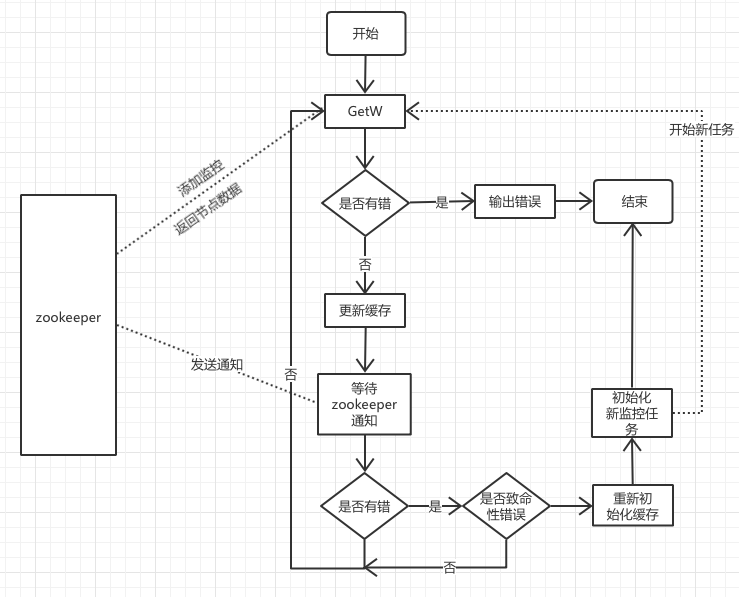
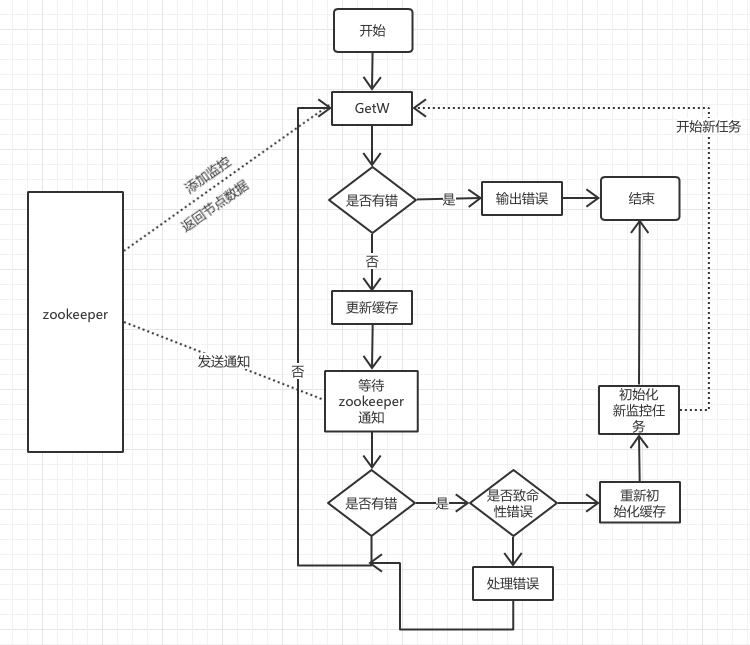
fixed

diff --git a/_site/服务治理/2016/11/16/servicemangger.html b/_site/服务治理/2016/11/16/servicemangger.html
@@ -139,36 +139,36 @@
   </div>
   <h2 id="section">为什么要做服务治理</h2>
 
-<p>一个系统在开发之初，功能简单，规模较小。 随着业务需求变化和增加，
-系统的功能和规模变得庞大</p>
+<p>一个系统在开发之初，功能简单，规模较小。 随着业务需求的变化和增加，
+系统的功能和规模会变得庞大。</p>
 
-<p>会出现以下问题：</p>
+<p>将会出现以下问题：</p>
 
 <ol>
-  <li>维护、开发、部署变得困难</li>
+  <li>维护、开发、部署将变得困难</li>
   <li>水平扩展困难</li>
   <li>功能及技术迭代困难
 （注：技术迭代指的是替换使用的语言、第三方工具等）</li>
 </ol>
 
-<p>为了解决上述的问题，我们会采取分拆系统的方法，将一个庞大的系统拆分成N个小系统。</p>
+<p>为了解决上述的问题，我们将会采取分拆系统的方法，将一个庞大的系统拆分成N个小系统。</p>
 
-<p>拆分会带来以下好处：</p>
+<p>拆分会带来以下的好处：</p>
 
 <ol>
   <li>独立部署，方便水平扩展</li>
   <li>系统隔离</li>
-  <li>快速的迭代（每个项目可以根据自己的业务场景来决定使用最优的语言和第三方工具）</li>
+  <li>快速的迭代（每个系统可以根据业务场景来决定使用最优的开发语言和第三方工具）</li>
 </ol>
 
 <p>但是，拆分并没有从根本上解决问题，随着业务发展，我们拆分出来的N个小系统会继续添加相关的业务，
-随着时间的发展也变的复杂和庞大。我们有继续使用拆分的方案。 然后拆分出来的系统又开始从简单变得复杂和臃肿，
-一遍又一遍做着重复拆分的事情。</p>
+随着时间的发展也变的复杂和庞大。我们又继续使用拆分的方案， 然后拆分出来的系统又随着业务的变化和发展，
+开始从简单变得复杂，我们一遍又一遍做着重复拆分的事情。</p>
 
-<p>我们如何解决这个问题：</p>
+<p>解决问题的方法是：</p>
 
-<p>在接到开发任务之初，将任务做成一个或者多个独立的服务单元（服务单元:请看下面注释），每个服务单元单独部署和迭代开发。
-禁止添加其它非要功能，单独部署。</p>
+<p>在接到开发任务之初，将任务做成一个或者多个独立的服务单元（服务单元:请看下面注释），
+每个服务单元单独部署和迭代开发，禁止添加其它非必要的功能。</p>
 
 <p>注解：</p>
 
@@ -191,11 +191,11 @@ DNS,NGINX,CONFIG都可以用来管理服务单元信息的变更
 </code></pre>
 
 <p>上述的方法，虽然可以解决问题，但是每次必须修改配置，然后重新加载配置才会生效。
-无法实现立即生效，避免错误继续扩大。为了解决这些问题，就要使用有效的服务治理方案。</p>
+无法实现立即生效，避免错误继续扩大的问题。为了解决这些问题，就要使用有效的服务治理方案。</p>
 
 <h2 id="section-1">服务治理</h2>
 
-<p>服务治理主要是对服务信息进行管理的一系列任务。为了实现这个任务，
+<p>服务治理主要是对服务信息进行管理的一系列的系统。为了实现这个系统，
 我们需要一个高可用、低延迟的数据存储工具。</p>
 
 <p>经过筛选我们最终选择了zookeeper。
@@ -212,7 +212,7 @@ DNS,NGINX,CONFIG都可以用来管理服务单元信息的变更
   <li>zookeeper watcher机制能够及时通知修改，保证信息一直</li>
 </ol>
 
-<p>虽然，我们可以通过zookeeper来解决存储服务信息的问题，
+<p>虽然，我们可以通过zookeeper来解决存储数据的问题，
 但是服务的信息并不会自动出现在zookeeper中，我们需要开发一个关于服务治理的系统。</p>
 
 <p>服务治理具备功能：</p>
@@ -329,28 +329,73 @@ Every node in ZooKeeper’s name space is identified by a path.</p>
 <p>为什么要将zookeeper中存储数据的结构设计为上面描述格式， 是因为zookeeper在watcher机制的处理中给出了
    两个关于wather 通知使用的API（golang zk）
    一个是关注子节点变化ChildrenW函数，另外一个是关注节点本身内容变化GetW函数。
-   我们的实现方案让每个节点功watcher机制更加简单。
-   我们现在来看一个具体的例子：假设有一个服务s，下面有A,B两个接口</p>
-
-<p><img src="/img/zkstoragestructrue.png" alt="" /></p>
+   我们设计的方案在实现上让每个节点功watcher更加简单。
+   我们现在来看一个具体的例子：假设有一个服务s，下面有A,B两个接口
+<img src="/img/zkstoragestructrue.png" alt="" /></p>
 
 <h2 id="zookeeper">出现的问题（如何保证缓存信息和zookeeper中的内容一致）</h2>
 
 <p>Gateway 为了做到低延迟和高可用性，在Gateway 中缓存zookeeper中的数据。
 在Gateway中缓存数据的格式与zookeeper中的结构一致。
-我们是如何保证缓存的信息是正确可用的？
+我们是如何保证缓存的信息是正确可用的,
 就需要用到zookeeper的watcher机制。在zookeeper中内容中修改时，
-通过watcher机制通知API Gateway 来更新缓存</p>
+通过watcher机制通知Gateway 来更新缓存</p>
 
-<p>具体的使用方法如下：</p>
+<p>具体的设计如下图（具体实现的流程图在最后）：</p>
 
-<p>watcher 正常情况：</p>
+<p><img src="/img/zkwatcherdesign.png" alt="" /></p>
 
-<p><img src="/img/zkwatcher.png" alt="" /></p>
+<p>看了设计图可能会有下列的疑问：</p>
 
-<p>watcher 错误情况:</p>
+<ol>
+  <li>
+    <p>为什么收到通知后不直接去更新缓存？</p>
 
-<p><img src="/img/zkwatcherror.png" alt="" /></p>
+    <p>这个问题就需要了解zookeeper关于watcher机制的原理，zookeeper的watcher机制是一次性的，
+ 在收到watcher的通知后，watcher就消失了。为了避免在更新缓存时zookeeper的
+ 数据再次变化无法收到通知，因为这个时候watcher机制已经没有，
+ zookeeper已经没有通知Gateway机制，这样缓存中的数据和zookeeper中的数据将会不一致。</p>
+  </li>
+  <li>
+    <p>为什么致命错误需要重新初始化缓存？</p>
+
+    <p>下面的介绍会跟开发使用的语言和使用zookeeper的sdk有一定的关系。</p>
+
+    <p>开发语言：golang   — SDK：samuel/go-zookeeper/zk</p>
+
+    <p>我们先来看下zookeeper的SDK是如何处理错误，
+ 个人将SDK的错误分为非致命错误和致命错误错误两种（个人观点）。</p>
+
+    <pre><code> 非致命错误：ErrNoAuth、ErrAPIError、ErrAuthFailed等
+
+ 致命错误：ErrSessionMoved、ErrSessionExpired等
+</code></pre>
+
+    <p>非致命错误是在函数调用时由于函数调用使用的参数及上下文环境出现问题返回的错误，
+ 影响范围只有本次调用。</p>
+
+    <p>致命错误通常是与zookeeper集群的通信出现网络故障，影响所有SDK与zookeeper的通信。</p>
+
+    <p>但是SDK(go-zookeeper)并不会在出现问题时刻立即报错，
+ SDK会自动尝试建立新的可用session，
+ SDK在session建立成功后给所有watcher发送一个错误通知。</p>
+
+    <p>ErrSessionMoved: 是与zookeeper集群的某个实例session失效后，
+ 下次与zookeeper成功建立session发送给所有watcher。</p>
+
+    <p>ErrSessionExpired:是与整个zookeeper集群session失效后，
+ 下次与zookeeper成功建立session发送给所有watcher。</p>
+
+    <p>致命错误：我们无法知道在于zookeeper集群session断开的时间段中，
+ zookeeper中的数据数据增删改查的变化。如果只是更新和新加，
+ 我们可以在初始化的时候将节点的内容缓存即可，
+ 但是如果有删除的话。我们就需要遍历所有的缓存内容来删除不需要的缓存。</p>
+  </li>
+</ol>
+
+<p>具体实现的流程图：</p>
+
+<p><img src="/img/zkwatcherprocess.png" alt="" /></p>
 
 
   <div class="post-affix">

diff --git a/_site/index.html b/_site/index.html
@@ -164,15 +164,14 @@
     <span class="post-date"><i class="fa fa-clock-o"></i> 2016-11-16</span>
     为什么要做服务治理
 
-一个系统在开发之初，功能简单，规模较小。 随着业务需求变化和增加，
-系统的功能和规模变得庞大
+一个系统在开发之初，功能简单，规模较小。 随着业务需求的变化和增加，
+系统的功能和规模会变得庞大。
 
-会出现以下问题：
+将会出现以下问题：
 
 
-  维护、开发、部署变得困难
-  水平扩展困难
-  功...
+  维护、开发、部署将变得困难
+  水平扩展困...
   </div>
   
   <div class="post">

diff --git a/_posts/2016-11-16-servicemangger.md b/_posts/2016-11-16-servicemangger.md
@@ -5,35 +5,36 @@ category: [服务治理]
 tags: [服务治理]
 ---
 
+
 ## 为什么要做服务治理
 
-一个系统在开发之初，功能简单，规模较小。 随着业务需求变化和增加，
-系统的功能和规模变得庞大
+一个系统在开发之初，功能简单，规模较小。 随着业务需求的变化和增加，
+系统的功能和规模会变得庞大。
 
-会出现以下问题：
+将会出现以下问题：
 
-1. 维护、开发、部署变得困难
+1. 维护、开发、部署将变得困难
 2. 水平扩展困难
 3. 功能及技术迭代困难
 （注：技术迭代指的是替换使用的语言、第三方工具等）
 
-为了解决上述的问题，我们会采取分拆系统的方法，将一个庞大的系统拆分成N个小系统。
+为了解决上述的问题，我们将会采取分拆系统的方法，将一个庞大的系统拆分成N个小系统。
 
-拆分会带来以下好处：
+拆分会带来以下的好处：
 
 1. 独立部署，方便水平扩展
 2. 系统隔离
-3. 快速的迭代（每个项目可以根据自己的业务场景来决定使用最优的语言和第三方工具）
+3. 快速的迭代（每个系统可以根据业务场景来决定使用最优的开发语言和第三方工具）
 
 但是，拆分并没有从根本上解决问题，随着业务发展，我们拆分出来的N个小系统会继续添加相关的业务，
-随着时间的发展也变的复杂和庞大。我们有继续使用拆分的方案。 然后拆分出来的系统又开始从简单变得复杂和臃肿，
-一遍又一遍做着重复拆分的事情。
+随着时间的发展也变的复杂和庞大。我们又继续使用拆分的方案， 然后拆分出来的系统又随着业务的变化和发展，
+开始从简单变得复杂，我们一遍又一遍做着重复拆分的事情。
 
 
-我们如何解决这个问题：
+解决问题的方法是：
 
-在接到开发任务之初，将任务做成一个或者多个独立的服务单元（服务单元:请看下面注释），每个服务单元单独部署和迭代开发。
-禁止添加其它非要功能，单独部署。
+在接到开发任务之初，将任务做成一个或者多个独立的服务单元（服务单元:请看下面注释），
+每个服务单元单独部署和迭代开发，禁止添加其它非必要的功能。
 
 注解：
 
@@ -54,11 +55,11 @@ tags: [服务治理]
     DNS,NGINX,CONFIG都可以用来管理服务单元信息的变更
 
 上述的方法，虽然可以解决问题，但是每次必须修改配置，然后重新加载配置才会生效。
-无法实现立即生效，避免错误继续扩大。为了解决这些问题，就要使用有效的服务治理方案。
+无法实现立即生效，避免错误继续扩大的问题。为了解决这些问题，就要使用有效的服务治理方案。
 
 ## 服务治理
 
-服务治理主要是对服务信息进行管理的一系列任务。为了实现这个任务，
+服务治理主要是对服务信息进行管理的一系列的系统。为了实现这个系统，
 我们需要一个高可用、低延迟的数据存储工具。
 
 经过筛选我们最终选择了zookeeper。
@@ -73,7 +74,7 @@ ZooKeeper is a centralized service for maintaining configuration information,
 2. zookeeper 使用范围比较广，
 3. zookeeper watcher机制能够及时通知修改，保证信息一直
 
-虽然，我们可以通过zookeeper来解决存储服务信息的问题，
+虽然，我们可以通过zookeeper来解决存储数据的问题，
 但是服务的信息并不会自动出现在zookeeper中，我们需要开发一个关于服务治理的系统。
 
 服务治理具备功能：
@@ -184,10 +185,8 @@ ZooKeeper is a centralized service for maintaining configuration information,
    为什么要将zookeeper中存储数据的结构设计为上面描述格式， 是因为zookeeper在watcher机制的处理中给出了
    两个关于wather 通知使用的API（golang zk）
    一个是关注子节点变化ChildrenW函数，另外一个是关注节点本身内容变化GetW函数。
-   我们的实现方案让每个节点功watcher机制更加简单。
+   我们设计的方案在实现上让每个节点功watcher更加简单。
    我们现在来看一个具体的例子：假设有一个服务s，下面有A,B两个接口
-   
-   
 ![](/img/zkstoragestructrue.png)
    
 
@@ -196,23 +195,66 @@ ZooKeeper is a centralized service for maintaining configuration information,
 
 Gateway 为了做到低延迟和高可用性，在Gateway 中缓存zookeeper中的数据。
 在Gateway中缓存数据的格式与zookeeper中的结构一致。
-我们是如何保证缓存的信息是正确可用的？
+我们是如何保证缓存的信息是正确可用的,
 就需要用到zookeeper的watcher机制。在zookeeper中内容中修改时，
-通过watcher机制通知API Gateway 来更新缓存
-
-具体的使用方法如下：
-
-watcher 正常情况：
-
-![](/img/zkwatcher.png)
-
-watcher 错误情况:
-
-![](/img/zkwatcherror.png)
+通过watcher机制通知Gateway 来更新缓存
 
 
 
+具体的设计如下图（具体实现的流程图在最后）：
 
+
+![](/img/zkwatcherdesign.png)
+
+
+看了设计图可能会有下列的疑问：
+
+1. 为什么收到通知后不直接去更新缓存？
+
+    这个问题就需要了解zookeeper关于watcher机制的原理，zookeeper的watcher机制是一次性的，
+    在收到watcher的通知后，watcher就消失了。为了避免在更新缓存时zookeeper的
+    数据再次变化无法收到通知，因为这个时候watcher机制已经没有，
+    zookeeper已经没有通知Gateway机制，这样缓存中的数据和zookeeper中的数据将会不一致。
+    
+2. 为什么致命错误需要重新初始化缓存？
+
+    下面的介绍会跟开发使用的语言和使用zookeeper的sdk有一定的关系。
+
+    开发语言：golang   --- SDK：samuel/go-zookeeper/zk
+    
+    我们先来看下zookeeper的SDK是如何处理错误，
+    个人将SDK的错误分为非致命错误和致命错误错误两种（个人观点）。
+    
+        非致命错误：ErrNoAuth、ErrAPIError、ErrAuthFailed等
+
+        致命错误：ErrSessionMoved、ErrSessionExpired等
+    
+    非致命错误是在函数调用时由于函数调用使用的参数及上下文环境出现问题返回的错误，
+    影响范围只有本次调用。
+
+    致命错误通常是与zookeeper集群的通信出现网络故障，影响所有SDK与zookeeper的通信。
+
+    但是SDK(go-zookeeper)并不会在出现问题时刻立即报错，
+    SDK会自动尝试建立新的可用session，
+    SDK在session建立成功后给所有watcher发送一个错误通知。
+
+    ErrSessionMoved: 是与zookeeper集群的某个实例session失效后，
+    下次与zookeeper成功建立session发送给所有watcher。
+
+    ErrSessionExpired:是与整个zookeeper集群session失效后，
+    下次与zookeeper成功建立session发送给所有watcher。
+
+    致命错误：我们无法知道在于zookeeper集群session断开的时间段中，
+    zookeeper中的数据数据增删改查的变化。如果只是更新和新加，
+    我们可以在初始化的时候将节点的内容缓存即可，
+    但是如果有删除的话。我们就需要遍历所有的缓存内容来删除不需要的缓存。
+
+    
+
+具体实现的流程图：
+
+
+![](/img/zkwatcherprocess.png)
  
 
 
